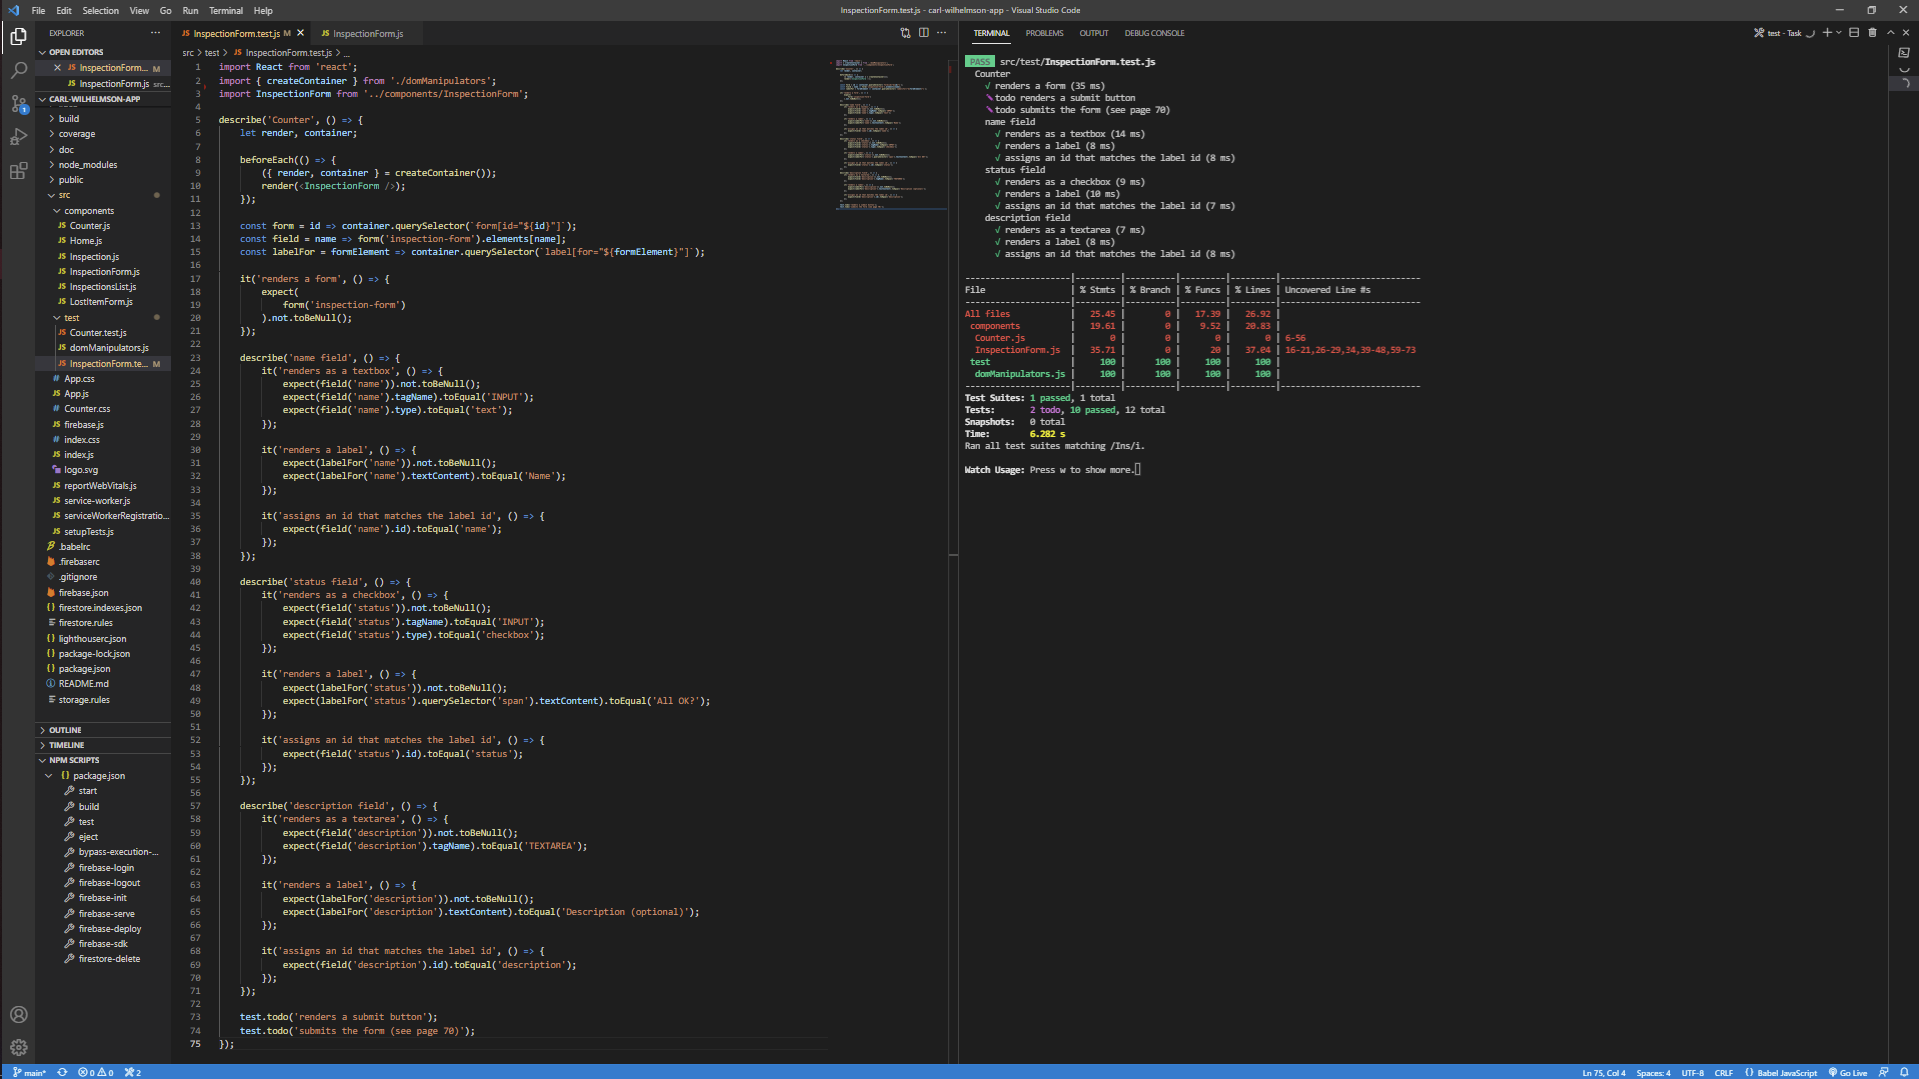
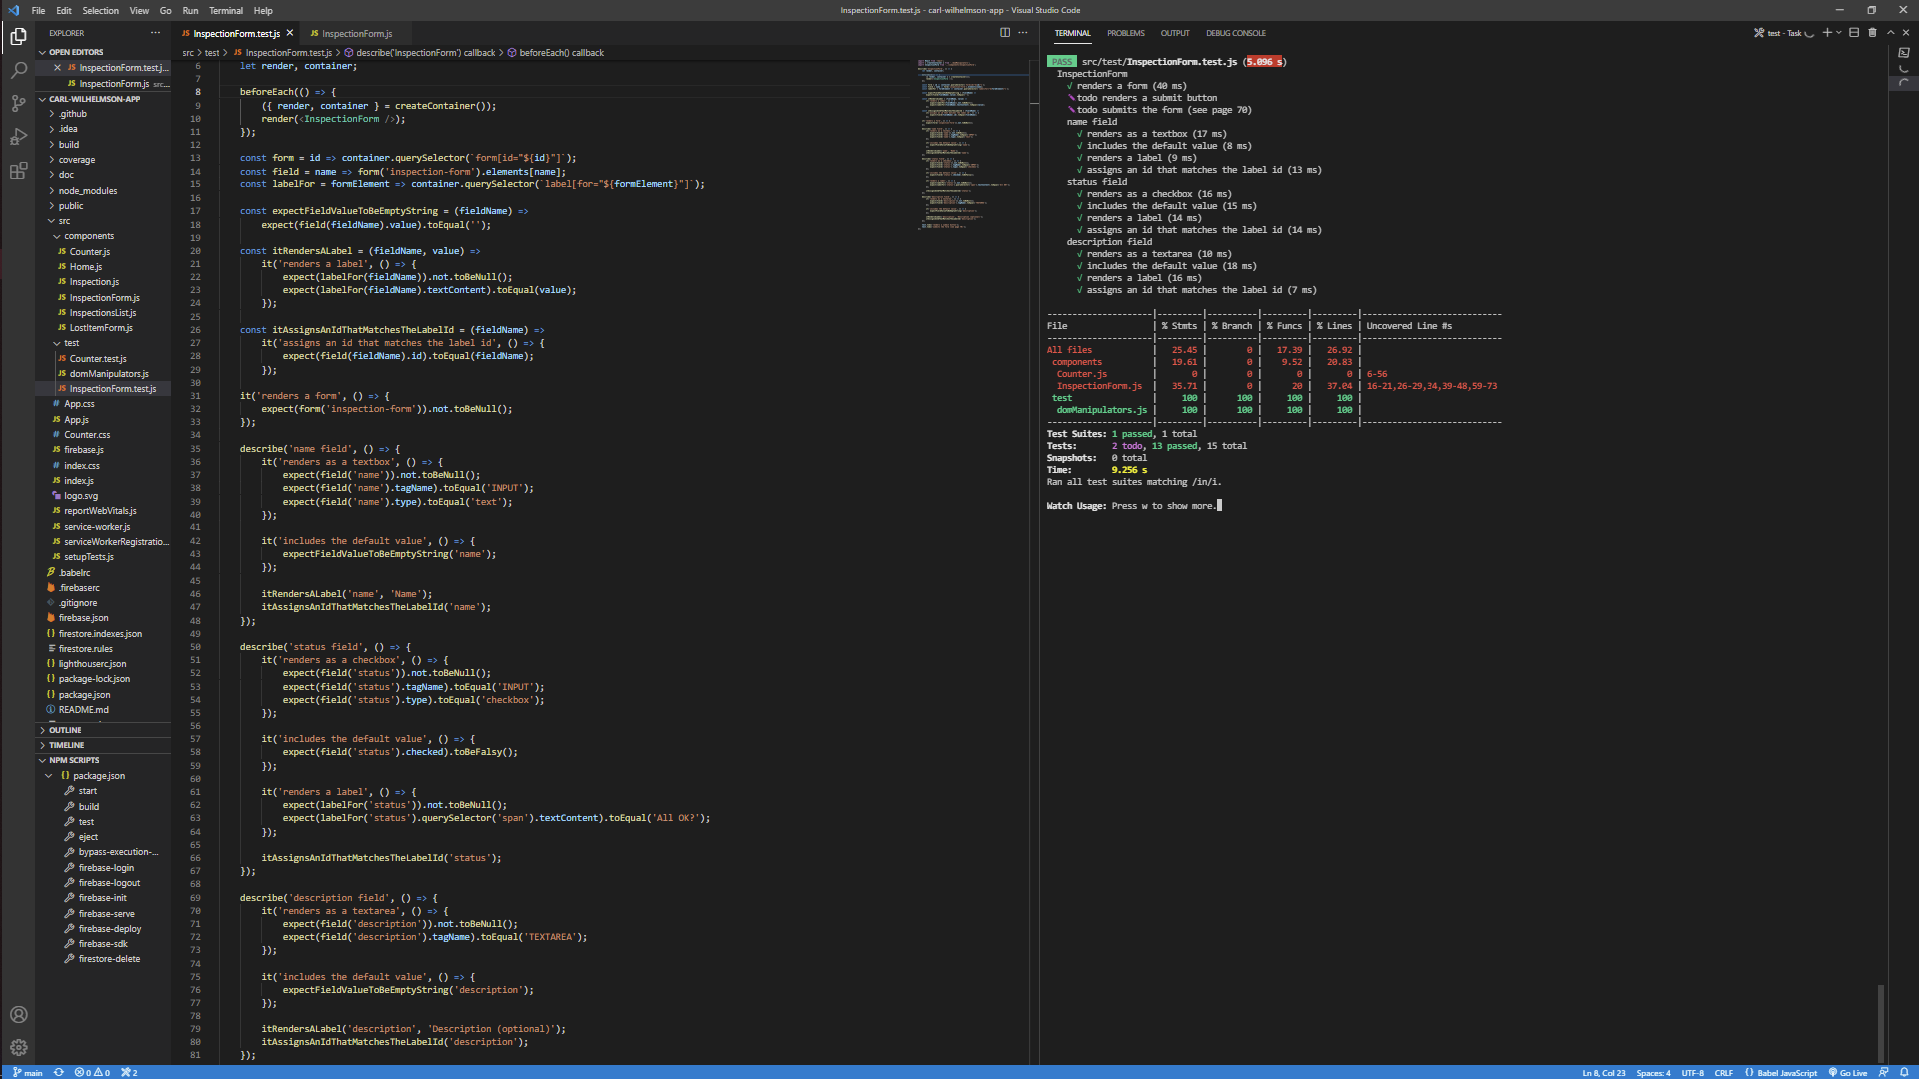
New progress Chapter 2 (blz. - 77)

diff --git a/week12/src/test/InspectionForm.test.js b/week12/src/test/InspectionForm.test.js
@@ -1,9 +1,8 @@
 import React from 'react';
 import { createContainer } from './domManipulators';
-import ReactTestUtils from 'react-dom/test-utils';
 import InspectionForm from '../components/InspectionForm';
 
-describe('Counter', () => {
+describe('InspectionForm', () => {
     let render, container;
 
     beforeEach(() => {
@@ -15,10 +14,22 @@ describe('Counter', () => {
     const field = name => form('inspection-form').elements[name];
     const labelFor = formElement => container.querySelector(`label[for="${formElement}"]`);
 
+    const expectFieldValueToBeEmptyString = (fieldName) =>
+        expect(field(fieldName).value).toEqual('');
+
+    const itRendersALabel = (fieldName, value) =>
+        it('renders a label', () => {
+            expect(labelFor(fieldName)).not.toBeNull();
+            expect(labelFor(fieldName).textContent).toEqual(value);
+        });
+
+    const itAssignsAnIdThatMatchesTheLabelId = (fieldName) =>   
+        it('assigns an id that matches the label id', () => {
+            expect(field(fieldName).id).toEqual(fieldName);
+        });
+
     it('renders a form', () => {
-        expect(
-            form('inspection-form')
-        ).not.toBeNull();
+        expect(form('inspection-form')).not.toBeNull();
     });
 
     describe('name field', () => {
@@ -27,15 +38,13 @@ describe('Counter', () => {
             expect(field('name').tagName).toEqual('INPUT');
             expect(field('name').type).toEqual('text');
         });
-        
-        it('renders a label', () => {
-            expect(labelFor('name')).not.toBeNull();
-            expect(labelFor('name').textContent).toEqual('Name');
+
+        it('includes the default value', () => {
+            expectFieldValueToBeEmptyString('name');
         });
 
-        it('assigns an id that matches the label id', () => {
-            expect(field('name').id).toEqual('name');
-        });
+        itRendersALabel('name', 'Name');
+        itAssignsAnIdThatMatchesTheLabelId('name');
     });
 
     describe('status field', () => {
@@ -44,15 +53,17 @@ describe('Counter', () => {
             expect(field('status').tagName).toEqual('INPUT');
             expect(field('status').type).toEqual('checkbox');
         });
+
+        it('includes the default value', () => {
+            expect(field('status').checked).toBeFalsy();
+        });
         
         it('renders a label', () => {
             expect(labelFor('status')).not.toBeNull();
             expect(labelFor('status').querySelector('span').textContent).toEqual('All OK?');
         });
 
-        it('assigns an id that matches the label id', () => {
-            expect(field('status').id).toEqual('status');
-        });
+        itAssignsAnIdThatMatchesTheLabelId('status');
     });
 
     describe('description field', () => {
@@ -60,15 +71,13 @@ describe('Counter', () => {
             expect(field('description')).not.toBeNull();
             expect(field('description').tagName).toEqual('TEXTAREA');
         });
-        
-        it('renders a label', () => {
-            expect(labelFor('description')).not.toBeNull();
-            expect(labelFor('description').textContent).toEqual('Description (optional)');
+
+        it('includes the default value', () => {
+            expectFieldValueToBeEmptyString('description');
         });
 
-        it('assigns an id that matches the label id', () => {
-            expect(field('description').id).toEqual('description');
-        });
+        itRendersALabel('description', 'Description (optional)');
+        itAssignsAnIdThatMatchesTheLabelId('description');
     });
 
     test.todo('renders a submit button');

diff --git a/week12/src/components/InspectionForm.js b/week12/src/components/InspectionForm.js
@@ -63,7 +63,7 @@ const InspectionForm = () => {
                     <div className="row">
                         <p>
                             <label htmlFor="status">
-                                <input name="status" id="status" type="checkbox" value={status} onChange={(e) => setStatus(e.target.checked)}/>
+                                <input name="status" id="status" type="checkbox" checked={status} onChange={(e) => setStatus(e.target.checked)}/>
                                 <span>All OK?</span>
                             </label>
                         </p>
